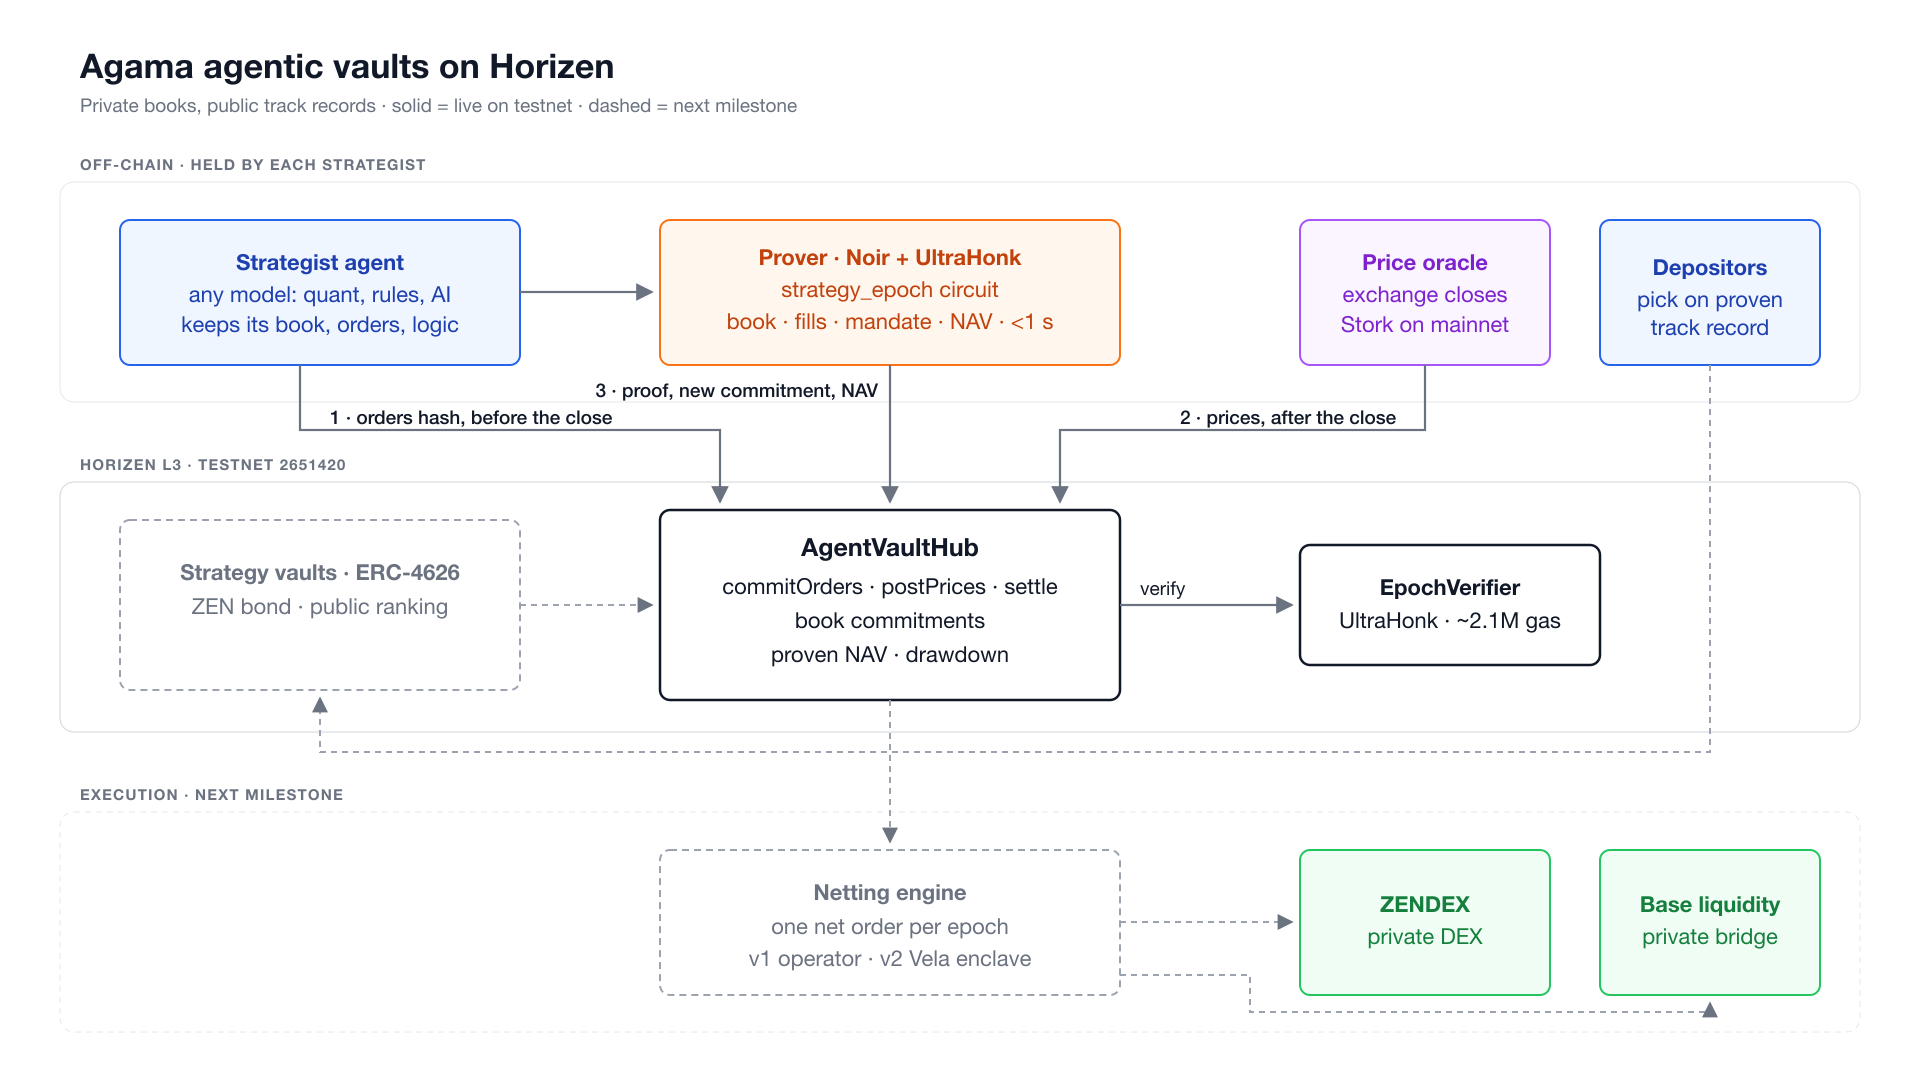
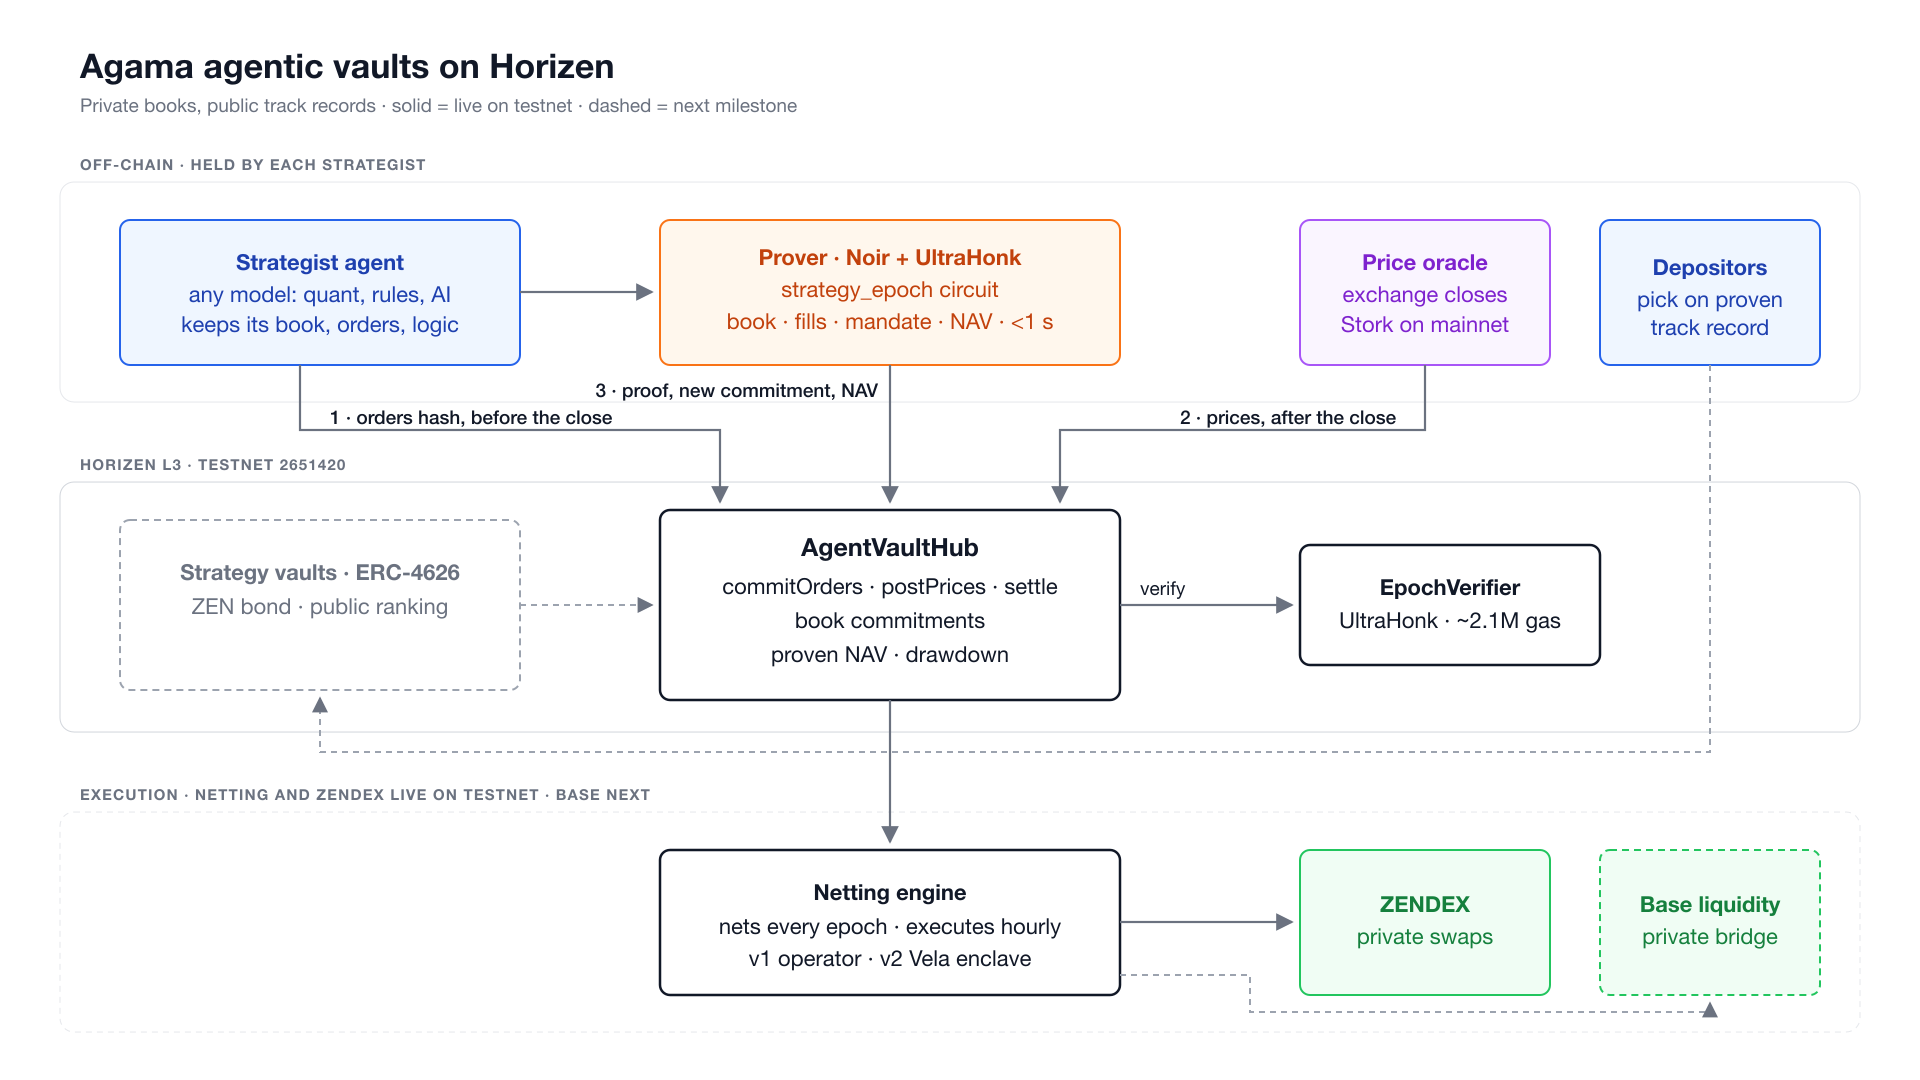
Document netting and private execution on ZENDEX, now live on testnet

diff --git a/README.md b/README.md
@@ -17,8 +17,9 @@ line: [`docs/ARCHITECTURE.md`](docs/ARCHITECTURE.md).
 
 > **Status.** A sandbox, started on 30 September 2026. Strategies trade virtual capital at
 > real exchange prices, so every NAV below is proven but none of it is money.
-> Netting across strategies, deposits, the ZEN bond and execution venues are
-> the next milestone. Nothing is audited.
+> Since 20 October the hub also nets its strategies every epoch and sends the
+> net flow to ZENDEX testnet as private swaps, at sandbox scale. Deposits, the
+> ZEN bond and Base liquidity are the next milestone. Nothing is audited.
 
 ---
 
@@ -52,10 +53,10 @@ flowchart TB
         VAULTS["Strategy vaults · ERC-4626<br/>ZEN bond · public ranking"]
     end
 
-    subgraph market["EXECUTION · next milestone"]
+    subgraph market["EXECUTION · netting and ZENDEX live on testnet"]
         direction LR
-        NET["Netting engine<br/>one net order per epoch<br/>v1 operator · v2 Vela enclave"]
-        ZENDEX["ZENDEX<br/>private DEX on Horizen"]
+        NET["Netting engine<br/>nets every epoch · executes hourly<br/>v1 operator · v2 Vela enclave"]
+        ZENDEX["ZENDEX<br/>private swaps on Horizen"]
         BASE["Base liquidity<br/>via the cluster's private bridge"]
     end
 
@@ -66,8 +67,8 @@ flowchart TB
     HUB -->|"verify"| VER
     DEP -.-> VAULTS
     VAULTS -.-> HUB
-    HUB -.-> NET
-    NET -.-> ZENDEX
+    HUB --> NET
+    NET -->|"private swaps, via the ZENDEX relayer"| ZENDEX
     NET -.-> BASE
 
     classDef actor fill:#eff6ff,stroke:#2563eb,color:#1e40af
@@ -81,8 +82,9 @@ flowchart TB
     class HUB,VER core
     class PROVER offchain
     class FEED feed
-    class ZENDEX,BASE integration
-    class NET,VAULTS next
+    class ZENDEX integration
+    class NET core
+    class VAULTS,BASE next
     style inputs fill:#ffffff,stroke:#ffffff
 ```
 
@@ -142,6 +144,29 @@ The balances behind those numbers, and the orders that moved them, are not on ch
 
 The strategies are deliberately simple, three-minute epochs and a 40% cap per asset, and they trade real prices: ZEN and ETH dropped and then recovered across the runs, and the record shows both legs, losses published exactly like gains. That is the point of a proven track record: nothing is picked after the fact, and each figure links to the transaction that verified it. The [live page](https://agamafinance.github.io/agama-horizen-agentic-vaults/) ([`docs/index.html`](docs/index.html)) draws the same record straight from the chain.
 
+## Netting and private execution on ZENDEX
+
+The RFP's other half is confidential execution. It runs on testnet since 20 October 2026.
+
+**Netting, every epoch.** Once prices are posted, [`agents/netting.py`](agents/netting.py) crosses opposite orders between strategies at the closing price. Only the residual, one net quantity per asset for the whole hub, is meant for the market. Each epoch's result is appended to [`deployment/netting-log.jsonl`](deployment/netting-log.jsonl).
+
+**Execution, every hour.** [`execution/zendex/`](execution/zendex) sums the net flow of the last 20 epochs and sends it to [ZENDEX](https://testnet.zendex.fi), the shielded AMM on Horizen, as private swaps. Our script runs the same client flow as the ZENDEX app:
+- it deposits into the shielded pool with a Noir proof;
+- it proves that the note is in the pool's Merkle tree and that the swap is valid;
+- it hands both proofs to the ZENDEX relayer, which sends the transaction and pays its gas.
+
+The venue sees the hub's net flow for the hour. It does not see which strategy traded or what each one did, and the swap does not come from our wallet.
+
+One hour of real flow, for example, epoch 9691:
+
+| Hub net flow | Sent to ZENDEX (sandbox scale, 1/10,000) | Transactions |
+|---|---|---|
+| buy 1.20 BTC, 99,192 USDC | deposit 9.92 tUSDC, swap to WZEN, swap to tcbBTC | [deposit](https://horizen-testnet.explorer.caldera.xyz/tx/0x20cd9f9422d9dae1c3502aca5d7e979f9cb506697fb78157ddacafc3994290c3) · [swap](https://horizen-testnet.explorer.caldera.xyz/tx/0x30184d2567cf4c748ba97287675439bc944b9db2b600db6fef1cc0e834eb0842) · [swap](https://horizen-testnet.explorer.caldera.xyz/tx/0x3016ecd6def38b7b47161115daa10fa90dc589a746394892ed3397b5cd69e9c9) |
+| sell 18,283 ZEN, 110,100 USDC | a WZEN note held in the pool, swapped to tUSDC | [swap](https://horizen-testnet.explorer.caldera.xyz/tx/0x313101aa7579a52aeffa67fec462576318bf7c1f62a3a2639348908a0540a1ac) |
+| sell 8.48 ETH | not sent: ZENDEX testnet has no ETH market | |
+
+Every leg, executed or skipped, is in [`deployment/execution-log.jsonl`](deployment/execution-log.jsonl). Testnet pools hold faucet tokens at synthetic prices, so each leg is sized by its USDC notional and the fill prices say nothing about a real market. What the sandbox shows is the path: proven books, a netted batch, and private swaps on a Horizen venue, with no strategy visible along the way.
+
 ## Attacks, mined on chain
 
 Three attacks sent as real transactions from a separate test strategy, mined, and reverted. Each one was set up so that every check before the targeted one passes, and the revert data was decoded to confirm which check refused it. Details in [`deployment/attacks.json`](deployment/attacks.json).
@@ -178,7 +203,8 @@ python3 deployment/report.py           # the tables above, rebuilt from chain da
 | `contracts/src/AgentVaultHub.sol` | registry, order commitments, closing prices, proven settlement |
 | `contracts/src/EpochVerifier.sol` | generated by `bb write_solidity_verifier` |
 | `contracts/test/` | the honest path and every refusal, against real proofs |
-| `agents/` | the two strategies, the live runner, the attack script |
+| `agents/` | the two strategies, the live runner, the netting, the attack script |
+| `execution/zendex/` | sends each hour's net flow to ZENDEX as private swaps |
 | `deployment/` | addresses, transaction log, public state reader, bytecode check, report |
 | `docs/` | architecture and milestones, the diagrams (Mermaid source and rendered), the live track record page |
 
@@ -187,17 +213,17 @@ fraction of a cent on Horizen. Proving takes under a second on a laptop.
 
 ## What comes next
 
-The RFP's other half is confidential execution. The next milestone adds it:
+Netting and ZENDEX execution run today. The next milestone adds:
 
-- **netting across strategies**: one batch per epoch, opposite orders crossed
-  at the closing price, a single net order sent to market, so no strategy's
-  trade history can be read back from the chain
+- **a proof for the netting**: today the operator nets the batch; the next
+  step proves that the net flow is exactly the sum of the committed orders
 - **vaults with real deposits**, one ERC-4626 per strategy, priced at the
   proven NAV
 - **the strategy lifecycle** the RFP asks about: sandbox, incubation, open,
   with a public ranking computed from proven figures and a strategist bond in
   ZEN sized to the capital a strategy may manage
-- **execution venues**: ZENDEX on Horizen, and Base liquidity
+- **execution at real size**: ZENDEX mainnet, and Base liquidity for assets
+  Horizen does not list, starting with ETH
 - **operator blindness**: netting inside a Vela enclave once Vela runs on
   Horizen with hardware attestation
 

diff --git a/docs/ARCHITECTURE.md b/docs/ARCHITECTURE.md
@@ -25,8 +25,8 @@ Horizen's RFP 1, private agentic trading vaults.
 
 1. Strategists send encrypted orders. The hash of each order set is committed on chain before the epoch closes. **(running)**
 2. After the close, the oracle posts closing prices. **(running, exchange prices on testnet, Stork on mainnet)**
-3. The netting engine crosses opposite orders between strategies at the closing price.
-4. The net order executes once, on ZENDEX or against Base liquidity. Fills are allocated back per strategy.
+3. The netting engine crosses opposite orders between strategies at the closing price. **(running, operator-side)**
+4. The net order executes once, on ZENDEX or against Base liquidity. Fills are allocated back per strategy. **(running on ZENDEX testnet, hourly, at sandbox scale; allocation back per strategy is M1)**
 5. Proofs: one for the netting, one per strategy for its book, mandate and NAV. **(the per-strategy proof is running)**
 6. Per strategy, the chain records a new commitment, a NAV per share, a drawdown and a mandate check. **(running)**
 7. The contract enforces the guards on its own: a drawdown beyond the declared limit freezes new orders, a missing proof suspends the strategy.
@@ -70,8 +70,8 @@ drawdown it declared.
 
 | | Scope | Evidence of completion |
 |---|---|---|
-| **M0, done** | per-strategy proof of book, mandate and NAV; commit-before-outcome; hub and verifier on Horizen testnet; two sandbox strategies over 136 epochs each, 272 proven settlements; three attacks refused on chain | this repository, `deployment/verify-bytecode.py`, `deployment/read-state.sh` |
-| **M1, the hard part** | netting across strategies with its own proof; shared pool; ERC-4626 vault per strategy priced at proven NAV; ZEN bond and mandate registry; strategist SDK; three or more strategies including two external ones over two weeks of hourly epochs; a public attack suite covering every guard | public repository, source-verified contracts, keyless state reader, transaction hashes |
+| **M0, done** | per-strategy proof of book, mandate and NAV; commit-before-outcome; hub and verifier on Horizen testnet; two sandbox strategies over 136 epochs each, 272 proven settlements; three attacks refused on chain; netting every epoch and the net flow sent hourly to ZENDEX testnet as private swaps through its relayer | this repository, `deployment/verify-bytecode.py`, `deployment/read-state.sh`, `deployment/execution-log.jsonl` |
+| **M1, the hard part** | a proof for the netting; fills allocated back per strategy; shared pool; ERC-4626 vault per strategy priced at proven NAV; ZEN bond and mandate registry; strategist SDK; three or more strategies including two external ones over two weeks of hourly epochs; a public attack suite covering every guard | public repository, source-verified contracts, keyless state reader, transaction hashes |
 | **M2, audit** | contracts and Noir circuits audited by a Foundation-approved auditor; fixes; public report | the report |
 | **M3, mainnet usage** | mainnet launch tied to ZENDEX mainnet, or a fixed date with Base execution if ZENDEX is not live; three months measured on the RFP's metrics: execution volume routed, active strategies with external depositors, unique depositors, total deposited, fee revenue | on-chain figures |
 
